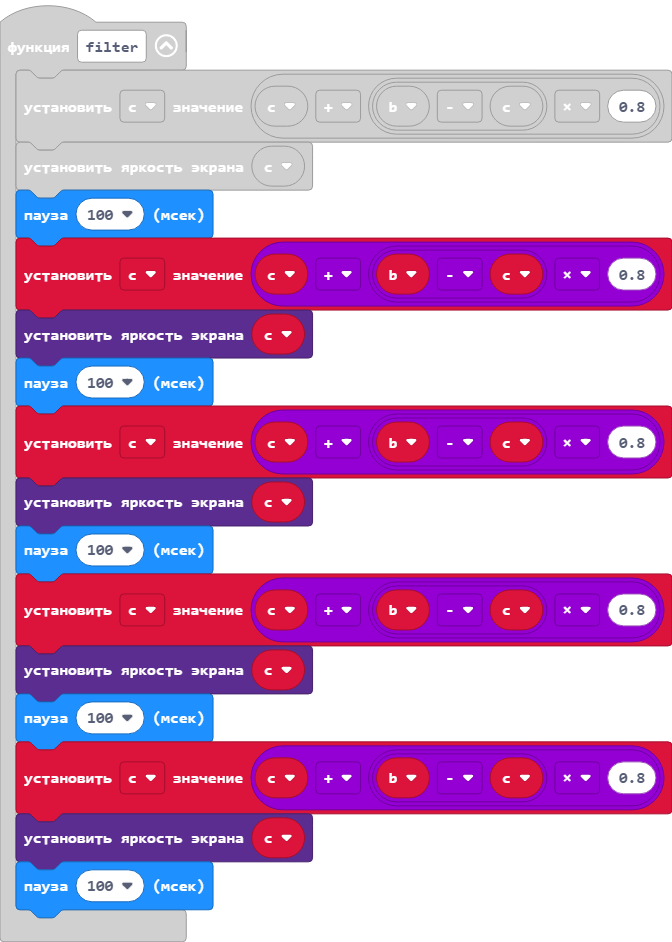
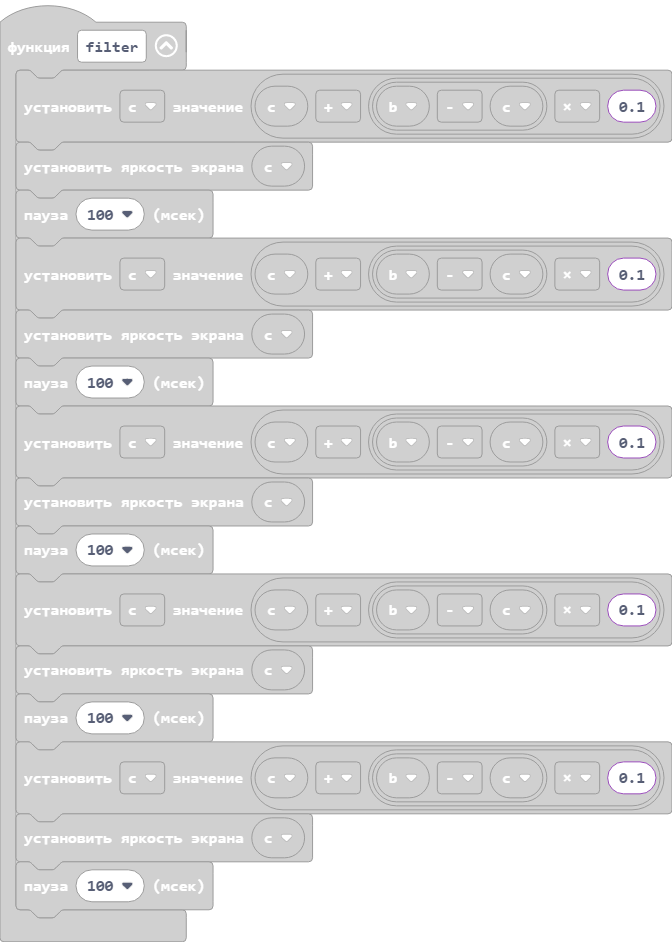
32

diff --git a/main.ts b/main.ts
@@ -3,19 +3,19 @@ input.onButtonPressed(Button.A, function () {
     led.enable(false)
 })
 function filter () {
-    c = c + (b - c) * 0.8
+    c = c + (b - c) * 0.1
     led.setBrightness(c)
     basic.pause(100)
-    c = c + (b - c) * 0.8
+    c = c + (b - c) * 0.1
     led.setBrightness(c)
     basic.pause(100)
-    c = c + (b - c) * 0.8
+    c = c + (b - c) * 0.1
     led.setBrightness(c)
     basic.pause(100)
-    c = c + (b - c) * 0.8
+    c = c + (b - c) * 0.1
     led.setBrightness(c)
     basic.pause(100)
-    c = c + (b - c) * 0.8
+    c = c + (b - c) * 0.1
     led.setBrightness(c)
     basic.pause(100)
 }
